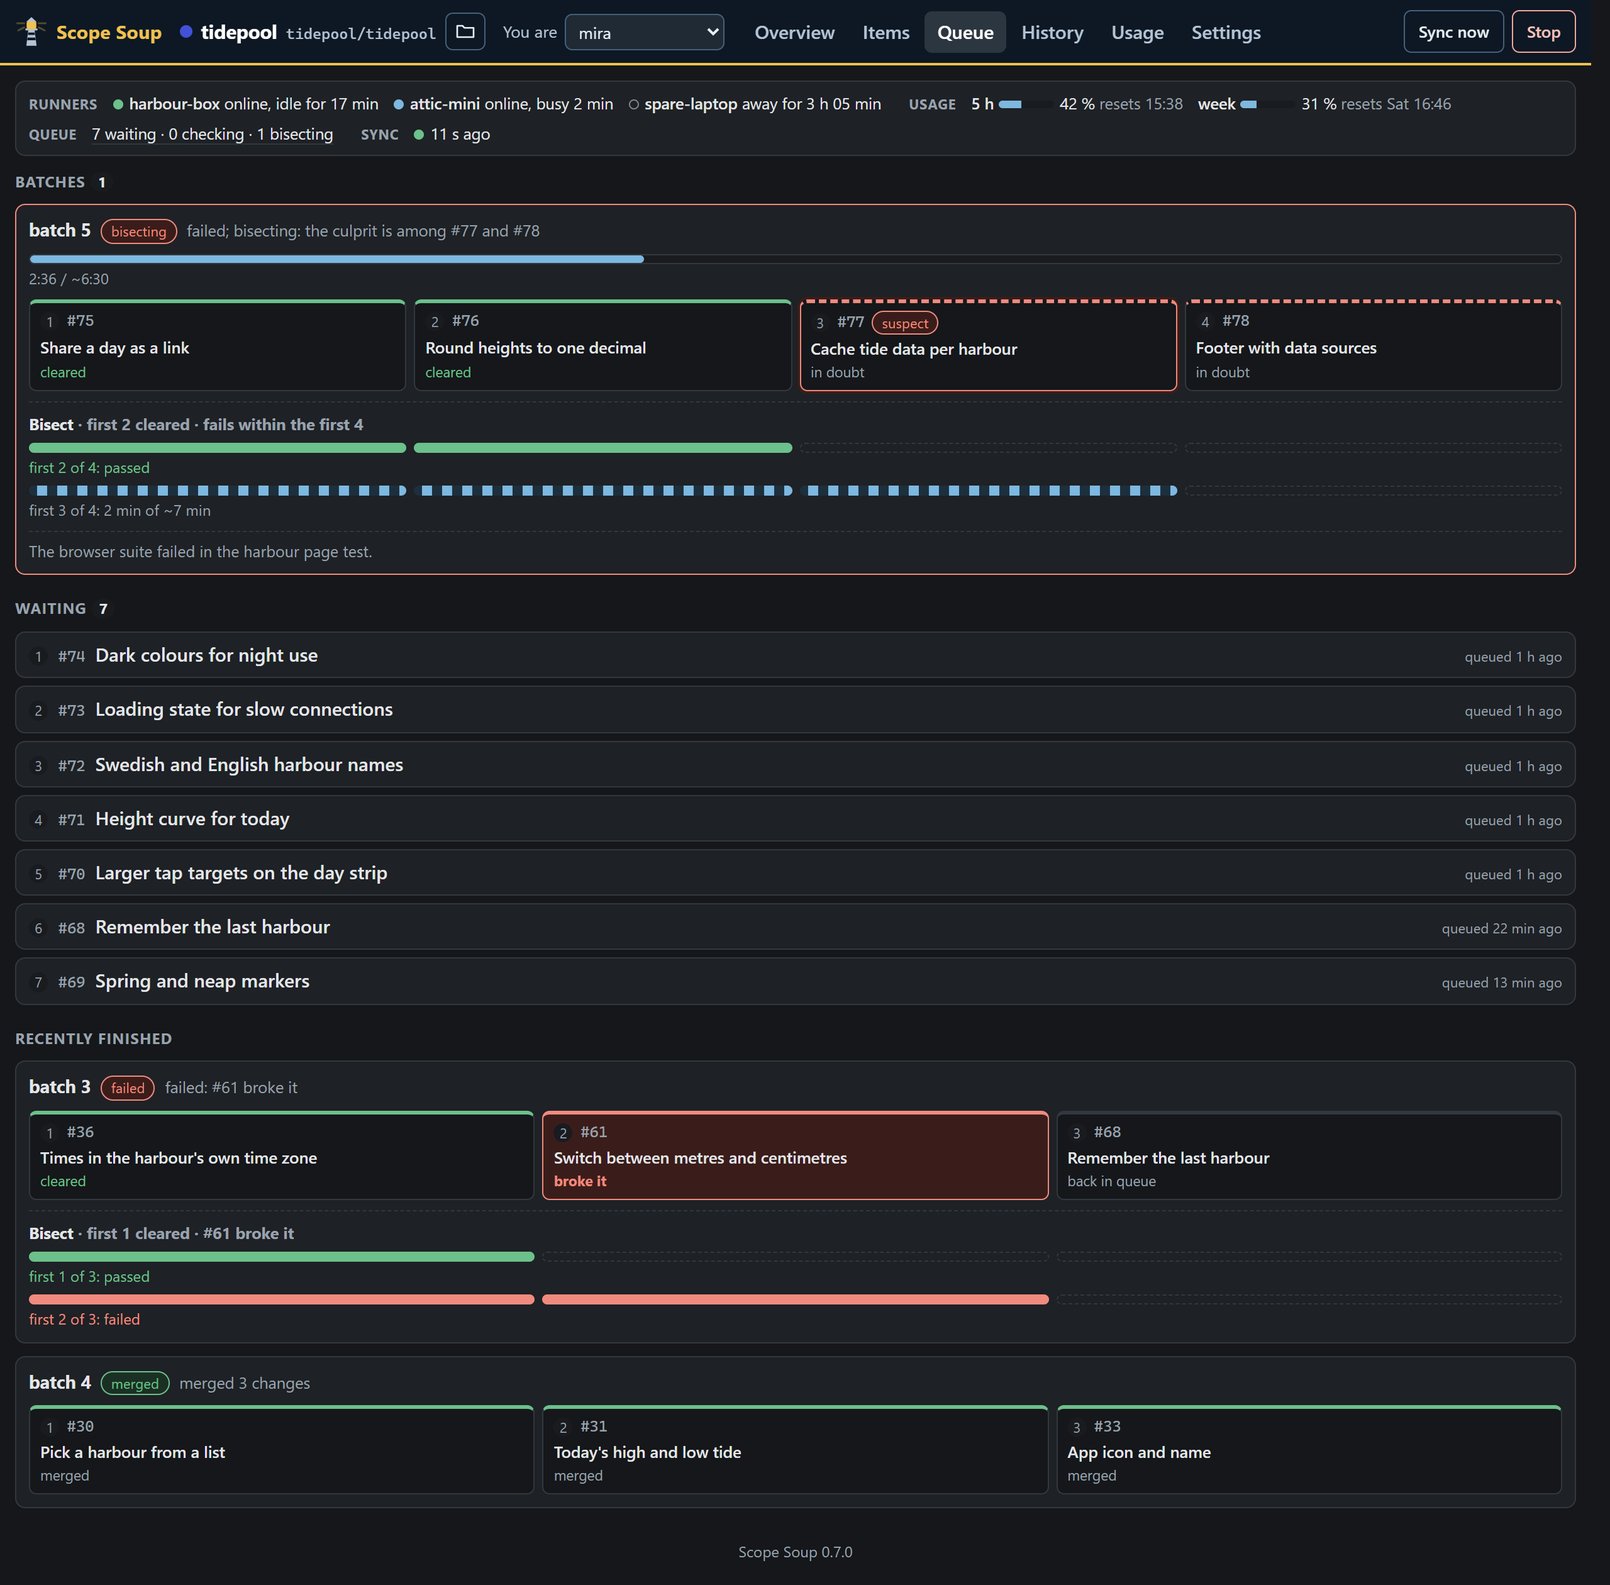
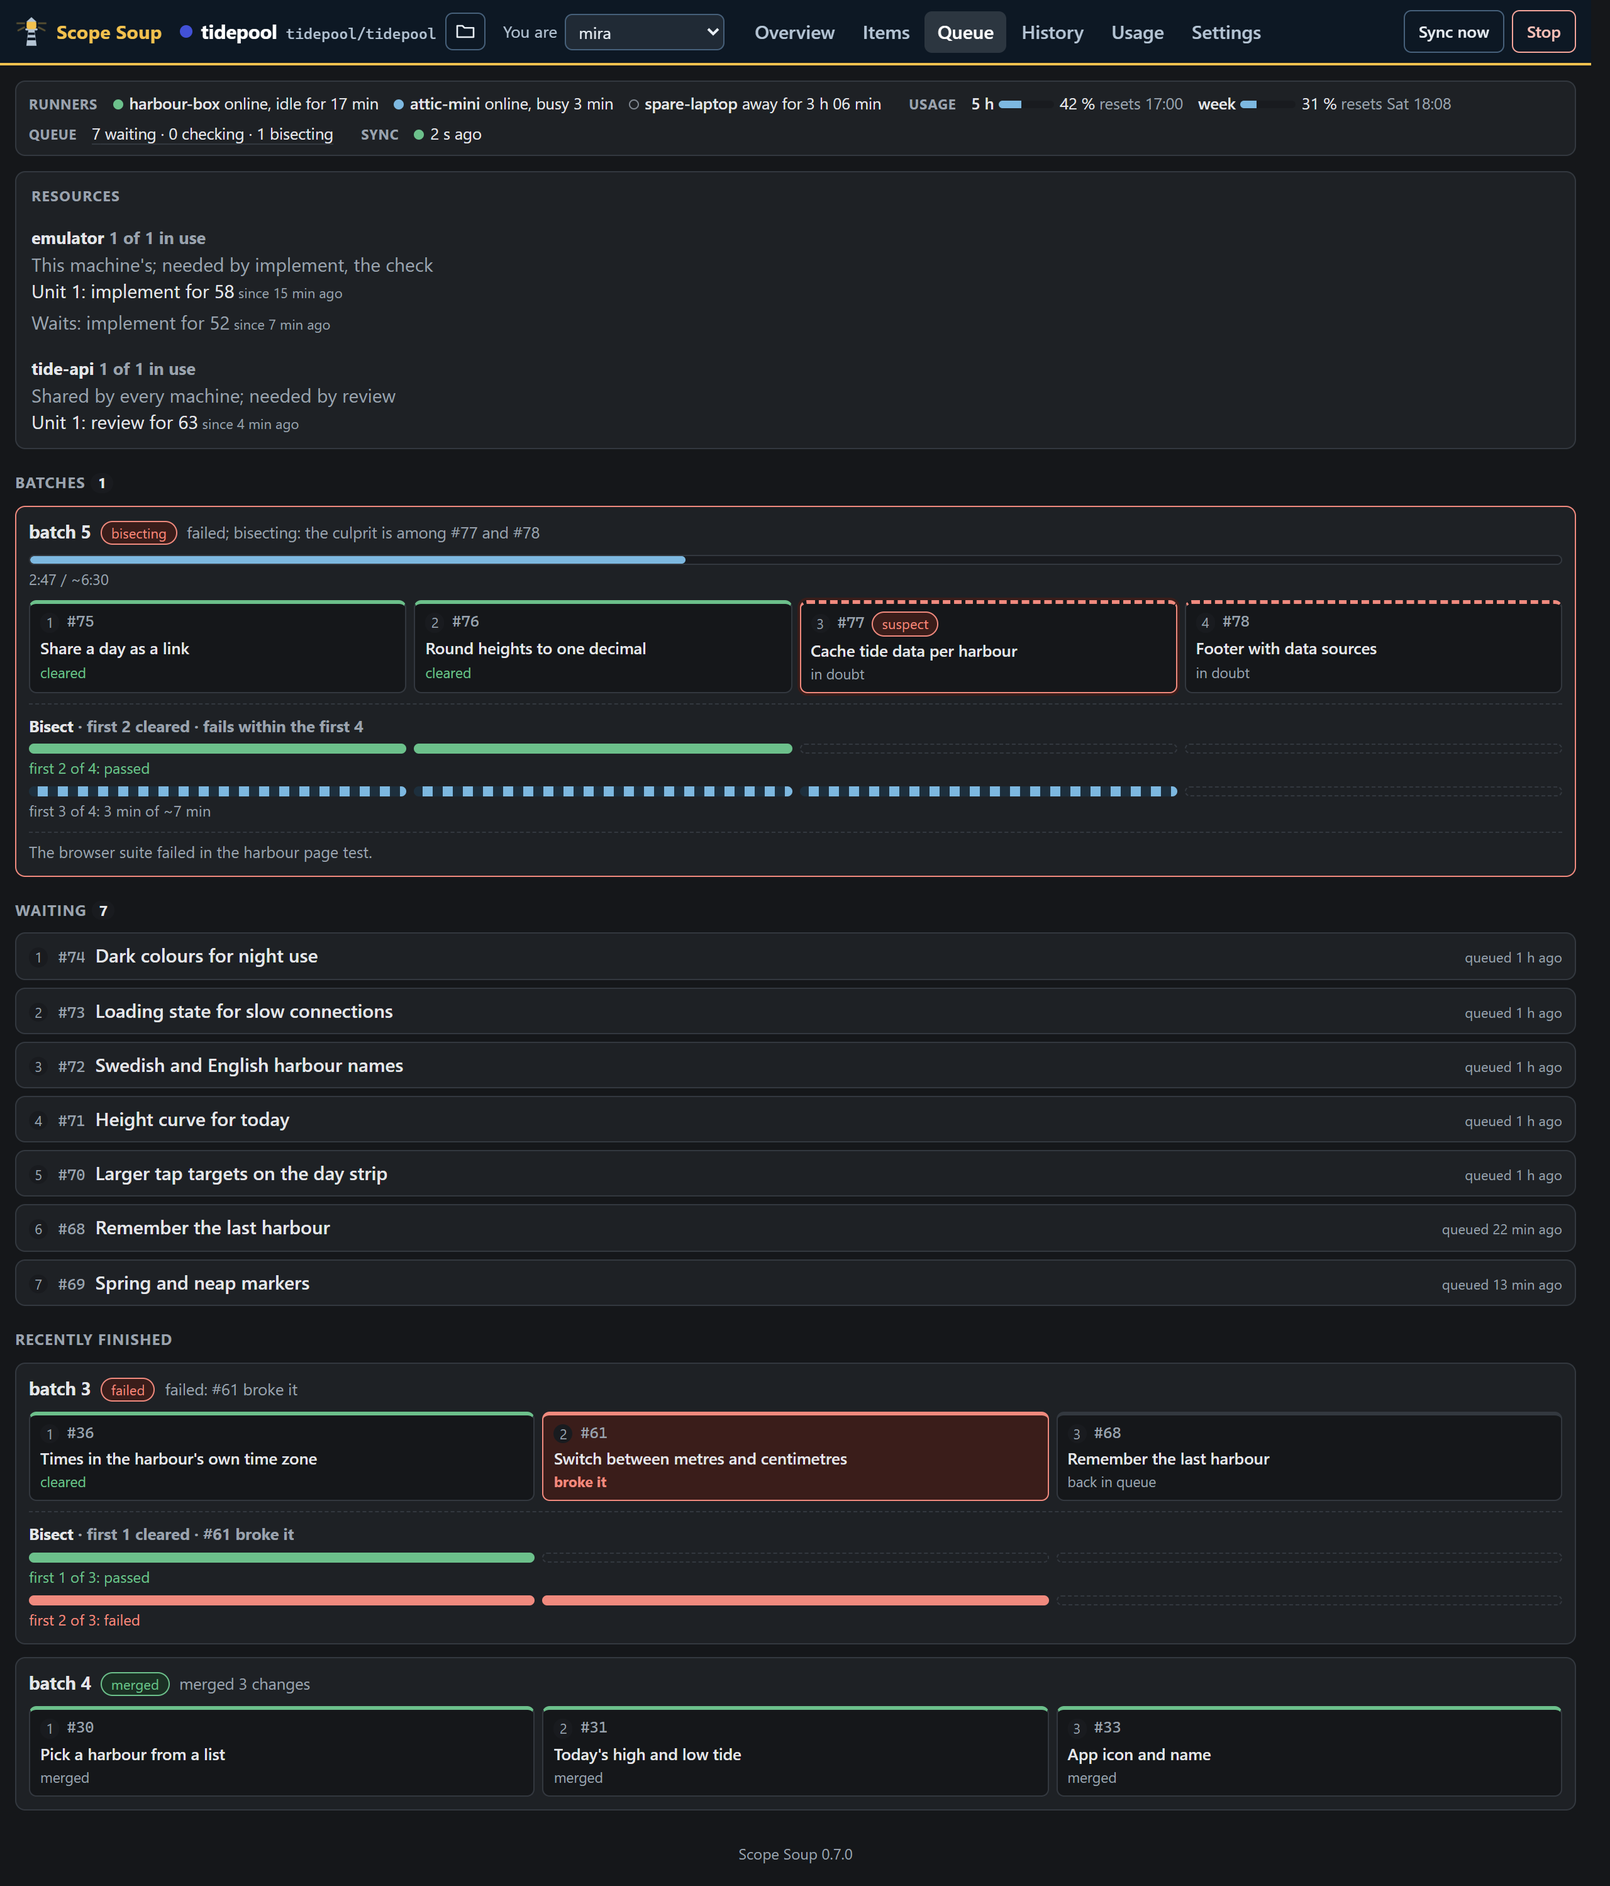
Move the Resources card from the overview to the Queue page (#58) (#60)
The Queue page now shows the limited resources; the overview does not. An Item
page says when the Item waits for a unit of a resource. Docs and the overview,
queue and phone pictures updated.

diff --git a/web/src/Item.tsx b/web/src/Item.tsx
@@ -1,7 +1,7 @@
 // The item page: the item with everything attached. The item is the one thing a person follows.
 
 import type { ConflictVersions, DecisionOption, ProposedPart, ParkedDraft } from "../../src/model/types.ts";
-import type { DiffFile, DiffView, ItemPage, RoundRow, SessionDetailsView } from "./api.ts";
+import type { BoardView, DiffFile, DiffView, ItemPage, RoundRow, SessionDetailsView } from "./api.ts";
 import { useEffect, useId, useState } from "preact/hooks";
 import { fetchChat, fetchDiff, fetchItem, fetchItemBranch, fetchSession, postAnswers, postChat, postDraft, postEdit, postHandBack, postProposal, postRelease, postResolve, postStartOver, postClaim, useNow, usePerson, useView } from "./api.ts";
 import { actorClass, actorWords, VoteButtons } from "./Card.tsx";
@@ -955,7 +955,14 @@ function Hold({ page, reload }: { page: ItemPage; reload: () => void }) {
   );
 }
 
-function Body({ page, reload }: { page: ItemPage; reload: () => void }) {
+/** The limited resources this Item waits for a unit of, from the board's resources (the waiting entry names the Item's id). */
+function waitingForUnit(id: string, resources: BoardView["resources"]): { name: string; since: string }[] {
+  return (resources?.resources ?? []).flatMap((resource) =>
+    resource.waiting.filter((wait) => wait.who.endsWith(` for ${id}`) || wait.who.endsWith(` on ${id}`)).map((wait) => ({ name: resource.name, since: wait.since })),
+  );
+}
+
+function Body({ page, reload, resources }: { page: ItemPage; reload: () => void; resources?: BoardView["resources"] }) {
   const now = useNow();
   const { item } = page;
   const [editing, setEditing] = useState(false);
@@ -973,6 +980,11 @@ function Body({ page, reload }: { page: ItemPage; reload: () => void }) {
         </h2>
         <p class="reason reason-big">{page.reason}</p>
         {page.why && <p class="why">{page.why}</p>}
+        {waitingForUnit(item.ref.id, resources).map((wait) => (
+          <p class="why" key={wait.name}>
+            Waits for a unit of <b>{wait.name}</b> <span class="muted num">since {ago(wait.since, now)}</span>; all of them are in use. <a href="#/queue">Queue</a>
+          </p>
+        ))}
         {page.canVote && <VoteButtons itemKey={item.key} off={page.voteOff} />}
         <div class="tags">
           <span class="tag">{laneWord(page.lane)}</span>
@@ -1250,9 +1262,9 @@ function Body({ page, reload }: { page: ItemPage; reload: () => void }) {
   );
 }
 
-export function Item({ refKey }: { refKey: string }) {
+export function Item({ refKey, resources }: { refKey: string; resources?: BoardView["resources"] }) {
   const { data, error, reload } = useView(() => fetchItem(refKey), refKey);
   useEffect(() => rememberViewed(refKey), [refKey]);
   if (!data) return <p class={error ? "notice notice-bad" : "empty"}>{error ?? "Loading…"}</p>;
-  return <Body page={data} reload={reload} />;
+  return <Body page={data} reload={reload} resources={resources} />;
 }

diff --git a/web/src/Overview.tsx b/web/src/Overview.tsx
@@ -6,7 +6,6 @@ import { useState } from "preact/hooks";
 import type { BoardView, ControlPath, LaneView } from "./api.ts";
 import { BatchMini } from "./Batch.tsx";
 import { Card } from "./Card.tsx";
-import { Resources } from "./Resources.tsx";
 import { ItemForm } from "./ItemForm.tsx";
 import { laneIcon, laneLabel } from "./format.ts";
 import { itemHref } from "./route.ts";
@@ -216,7 +215,6 @@ export function Overview({ board, busy, onSwitch }: { board: BoardView; busy: bo
           </div>
         )}
       </section>
-      {board.resources && <Resources resources={board.resources} />}
       <div class="lanes">
         {board.lanes.map((lane) => (
           <Lane key={lane.lane} lane={lane} board={board} closed={closed.includes(lane.lane)} toggle={() => toggle(lane.lane)} control={control(lane.lane)} onAdd={lane.lane === "backlog" && board.canWrite && !writing ? openFromLane : undefined} />

diff --git a/web/src/Queue.tsx b/web/src/Queue.tsx
@@ -5,6 +5,7 @@ import { postQueueResume, useNow } from "./api.ts";
 import { useState } from "preact/hooks";
 import { BatchBox } from "./Batch.tsx";
 import { ago, flakyRows } from "./format.ts";
+import { Resources } from "./Resources.tsx";
 import { itemHref } from "./route.ts";
 
 function Health({ health }: { health: NonNullable<BoardView["queue"]["health"]> }) {
@@ -85,6 +86,7 @@ export function Queue({ board }: { board: BoardView }) {
     <div class="queue">
       {board.queue.health && <Health health={board.queue.health} />}
       {board.queue.mergeQueue && <MergeLease lease={board.queue.mergeQueue} />}
+      {board.resources && <Resources resources={board.resources} />}
       {empty && <p class="empty">The queue is empty.</p>}
       {batches.length > 0 && (
         <section>

diff --git a/web/src/main.tsx b/web/src/main.tsx
@@ -148,7 +148,7 @@ function App() {
       <VersionFooter />
       {current.view === "item" && (
         <ItemDialog closeHref={belowHash}>
-          <Item key={current.key} refKey={current.key} />
+          <Item key={current.key} refKey={current.key} resources={board?.resources} />
         </ItemDialog>
       )}
     </>

diff --git a/docs/DESIGN.md b/docs/DESIGN.md
@@ -245,7 +245,7 @@ The agent runner:
 - treats no stream event for N minutes as a stall;
 - manages git worktrees itself, reused across items like a pool (`src/orchestrator/slots.ts`), or hands out full clones from a pool when the project is a submodule of an outer repository (`src/orchestrator/workspaces.ts`). Before each implement or review session and each check it runs the project's setup when it must (`setupCommand`, `src/orchestrator/setup.ts`). Before a worktree is freed when the Item is parked, its uncommitted edits are kept as a patch in the streams folder (`<streamsDir>/wip/<workspace>.diff`, `src/orchestrator/wip.ts`) and put back, with a note to the session, when the item resumes.
 
-**Limited resources (decision 74, `src/orchestrator/resources.ts`).** The configuration declares resources with a number of units, what needs them (roles and the check) and per-unit environment variables. The tick takes a unit of each resource the step needs (all or none) before the workspace and the claim, so an Item without one waits without writing anything to the host, and the next Item may still start; the units' variables go to the session in its environment. The runner gives a session's units back when it is over, by its Item's key, however it ended (also for a session that never started); the tick gives them back itself when the start did not happen. A chat turn takes units like a session. The queue's check takes them before each check (holder `check`) and gives them back after; without one the drain stops and the effect waits for a later drain, with no pause. This machine's units are counted in memory; a shared resource's unit is also a lease on the project's remote, `refs/scopesoup/resources/<name>/<unit>`, made with the merge queue's lease code (`mergeQueue.ts`, which takes the ref's name), held by the machine's name and lasting the longest a session or check may run, so there is no renewal. At start Scope Soup gives back everything, here and its leases on the remote. What is held, what waits and what other machines held when this one last tried is the kv value `resources`, which the board reads with the declared resources (`ResourcesView`).
+**Limited resources (decision 74, `src/orchestrator/resources.ts`).** The configuration declares resources with a number of units, what needs them (roles and the check) and per-unit environment variables. The tick takes a unit of each resource the step needs (all or none) before the workspace and the claim, so an Item without one waits without writing anything to the host, and the next Item may still start; the units' variables go to the session in its environment. The runner gives a session's units back when it is over, by its Item's key, however it ended (also for a session that never started); the tick gives them back itself when the start did not happen. A chat turn takes units like a session. The queue's check takes them before each check (holder `check`) and gives them back after; without one the drain stops and the effect waits for a later drain, with no pause. This machine's units are counted in memory; a shared resource's unit is also a lease on the project's remote, `refs/scopesoup/resources/<name>/<unit>`, made with the merge queue's lease code (`mergeQueue.ts`, which takes the ref's name), held by the machine's name and lasting the longest a session or check may run, so there is no renewal. At start Scope Soup gives back everything, here and its leases on the remote. What is held, what waits and what other machines held when this one last tried is the kv value `resources`, which the board reads with the declared resources (`ResourcesView`). The Queue page shows them; the page of an Item that waits for a unit says so, with the resource and since when.
 
 The usage check is a pure function over the newest usage sample (5-hour and weekly windows from `rate_limit_event`), the reset times and the reserve kept for people's own use (the `budgetReserve` setting, always applied from level 1; `docs/RUNNING.md`). A session cut off by a limit is resumed after the reset.
 
@@ -255,13 +255,13 @@ The usage check is a pure function over the newest usage sample (5-hour and week
 
 Hash routes (`web/src/route.ts`), a header with the six views and the Sync now and Stop buttons (the nav wraps whole words on a phone). The four switches (`src/store/control.ts`, `web/src/switches.ts`), each Pause or Resume, sit in the headers of the lanes they feed: triage on Backlog, implementors on In progress, review on In review, the merge queue on Queued (Checking shows it paused too); a paused lane is muted and says so, and a switch is not shown below the level that uses its role:
 
-- **Overview** (`#/`): lanes (backlog, in progress, in review, queued, checking, done), the "your turn" list (each card says only what waits and how many: "2 questions", "a draft to accept", "a split to accept", "to merge", "not ready", "escalated"; opening the Item shows the details), and a status line (runners, usage windows with a forecast of when each is used up, queue length). When nothing starts it also shows the orchestrator's idle reason ("Nothing was started because ..."), and clears it once something starts. The backlog lane is in the orchestrator's planned pick order and numbers its cards 1..n (`planOrder` in `src/orchestrator/candidates.ts`): priority, then bugs, smaller, older. From level 1 a divider puts the Items not triaged yet (no triage) below the rest, in the order their triages run: priority, then older. Cards whose item has open children (an umbrella) take no number. An item parked as "too large, split it first" (or split from a proposal a person accepted) leaves "your turn" once it has open sub-items and becomes an umbrella ("has N open sub-items; the work happens there"); an umbrella is never triaged or started itself. When its last sub-item is done it returns to "your turn" as "Close it if nothing is left: all N sub-items are done", and is not triaged again as a whole. The overview has no list of its own for the implementors' decisions or for who holds what: a card says "held by mira" and "2 decisions to look at", and the Item's page has the decisions (Accept or Overturn, one Send) and the holder (since when, quiet, claim ran out). The queue page shows which machine merges now on a project that several machines share.
+- **Overview** (`#/`): lanes (backlog, in progress, in review, queued, checking, done), the "your turn" list (each card says only what waits and how many: "2 questions", "a draft to accept", "a split to accept", "to merge", "not ready", "escalated"; opening the Item shows the details), and a status line (runners, usage windows with a forecast of when each is used up, queue length). When nothing starts it also shows the orchestrator's idle reason ("Nothing was started because ..."), and clears it once something starts. The backlog lane is in the orchestrator's planned pick order and numbers its cards 1..n (`planOrder` in `src/orchestrator/candidates.ts`): priority, then bugs, smaller, older. From level 1 a divider puts the Items not triaged yet (no triage) below the rest, in the order their triages run: priority, then older. Cards whose item has open children (an umbrella) take no number. An item parked as "too large, split it first" (or split from a proposal a person accepted) leaves "your turn" once it has open sub-items and becomes an umbrella ("has N open sub-items; the work happens there"); an umbrella is never triaged or started itself. When its last sub-item is done it returns to "your turn" as "Close it if nothing is left: all N sub-items are done", and is not triaged again as a whole. The overview has no list of its own for the implementors' decisions or for who holds what: a card says "held by mira" and "2 decisions to look at", and the Item's page has the decisions (Accept or Overturn, one Send) and the holder (since when, quiet, claim ran out). The queue page shows which machine merges now on a project that several machines share, and the limited resources (the overview does not).
 - **Items** (`#/items?...`): every item, open and closed, with search, filters (lane, priority, turn, label, holder, change, created by) and ready-made views. Stores nothing of its own (`src/core/item-list.ts`).
 - **Queue** (`#/queue`): batches as boxes around their changes with one progress bar each; a bisect drawn as a tree under a failed batch.
 - **History** (`#/history`): the newest commits of the main branch and the item branches as lanes, and one commit's message and files, read with git from `repoPath` (`src/orchestrator/history.ts`). Nothing is fetched.
 - **Usage** (`#/usage`): the usage windows, what each role has used, and the forecast.
 - **Settings** (`#/settings`): the level as five rows with what each needs, then parallel sessions, the usage reserve, the setup, the limited resources and the model of each role (`docs/RUNNING.md`).
-- **Resources** (on the overview): each limited resource, who holds each unit and what waits for one.
+- **Resources** (on the Queue page): each limited resource, who holds each unit and what waits for one.
 - **Item** (`#/item/<key>`): the item page of decision 5, with the change's diff against where it left the main branch (`GET /api/diff`, bounded in files and characters; `src/orchestrator/diff.ts`).
 
 **Who is at the board.** People are equals and there is no login: the header has a person picker (the people Scope Soup knows from holds, log lines and answers, and a new name), remembered in the browser only (`web/src/person.ts`). Every request names the picked person in `X-ScopeSoup-Person`; the server builds that person's "Your turn" (`src/core/turns.ts`: questions are `anyone`'s, in every list until answered; a person's holds and hand-backs are `person` turns) and records the name on answers, takes and releases (`src/server/person.ts`).

diff --git a/docs/RUNNING.md b/docs/RUNNING.md
@@ -249,7 +249,7 @@ Some projects need something only so many of exist to build, run or test: a lice
 - `env` (optional): environment variables for the session or check that holds a unit, so each gets its own instance: its own emulator, its own database name. `{{unit}}` in a value is the unit's number, from 1.
 - **Taking turns.** A session that needs a resource takes a unit of each one it needs before its workspace and claim, all or none. When none is free the Item waits ("implement for A-12 waits: all 1 unit(s) of phone are held: implement for A-9") and the next Item that does not need it may start. The unit goes back when the session ends, however it ends: done, failed, stalled, timed out or stopped. A chat turn takes one too, or is refused while none is free. The queue's check waits without pausing the queue and runs once a unit is free. Scope Soup gives back everything at start, since nothing it ran survives a restart.
 - **Across machines.** A unit of a shared resource is also held on the project's remote, one lease per unit on `refs/scopesoup/resources/<name>/<unit>`, the same kind of lease as `refs/scopesoup/merge-queue` (a chain of empty commits, taken by a fast-forward push), so it works on a GitHub project too. A unit another machine holds is not free here. A lease lasts as long as the longest a session or check may run with its setup, plus 15 minutes, so a machine that died does not hold a unit longer than that; when it starts again it lets its leases go at once. When the remote cannot be reached, work that needs a shared resource waits.
-- **The board** shows each resource on the overview: how many of its units are in use, who holds each (a session's role and Item, the check, or another machine's name) and what waits for one.
+- **The board** shows each resource on the Queue page: how many of its units are in use, who holds each (a session's role and Item, the check, or another machine's name) and what waits for one. The page of an Item that waits for a unit says so.
 - **The Settings page** shows them under Resources, where you add, change and remove them. "Shared by every machine" puts one in `sharedResources` (a project setting, saved on the meta ref); otherwise it goes in this machine's file. Onboarding does not ask for them.
 
 ### Which project a board is, and its folders
